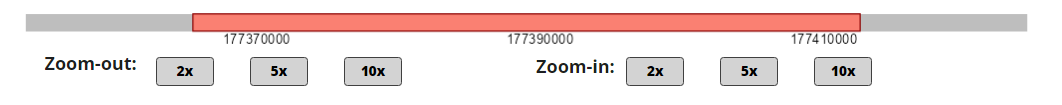
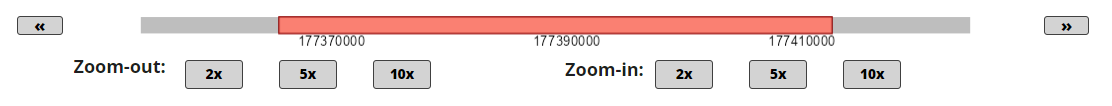
Add files via upload

Changed region(s): [[0.0, 0.1143, 0.9944, 0.4571], [0.0311, 0.5429, 0.404, 0.8571], [0.4972, 0.5429, 0.839, 0.8571]]

diff --git a/assets/genomicviewer-reference-manual.md b/assets/genomicviewer-reference-manual.md
@@ -654,11 +654,11 @@ you have to search again for the gene in the menu.
 To trigger the generation of the plot or run an analysis, after choosing the
 gene of interest one must click the *Go* button.
 
-#### Zoom
+#### Zoom and pan
 
 The zoom panel located at the bottom of the plot navigation panel in the
 central window offers an alternative way for genome navigation. This is
-especially useful when investigate the flanking regions of a selected genomic
+especially useful to investigate the flanking regions of a selected genomic
 position or when narrowing down the region of interest. See also the
 [Tutorial](#tutorial).
 
@@ -678,6 +678,10 @@ There are two ways for using the zoom panel for navigation:
   zoom in and out 2, 5, or 10 times, respectively. The initially shown area
   will remain the center of zoomed region. Again, hitting the *Go* button will
   replot the newly selected genomic region.
+  
+In addition, the two **arrow buttons** at either sides of the drag and drop bar offer 
+the possibility to move along the genome by shifting the displayed genomic region 
+by 50% of the currently visible window in the corresponding direction.
 
 <img src="GV_zoom_bar.png" alt="GV navigation through zoom bar" width="80%">
 
